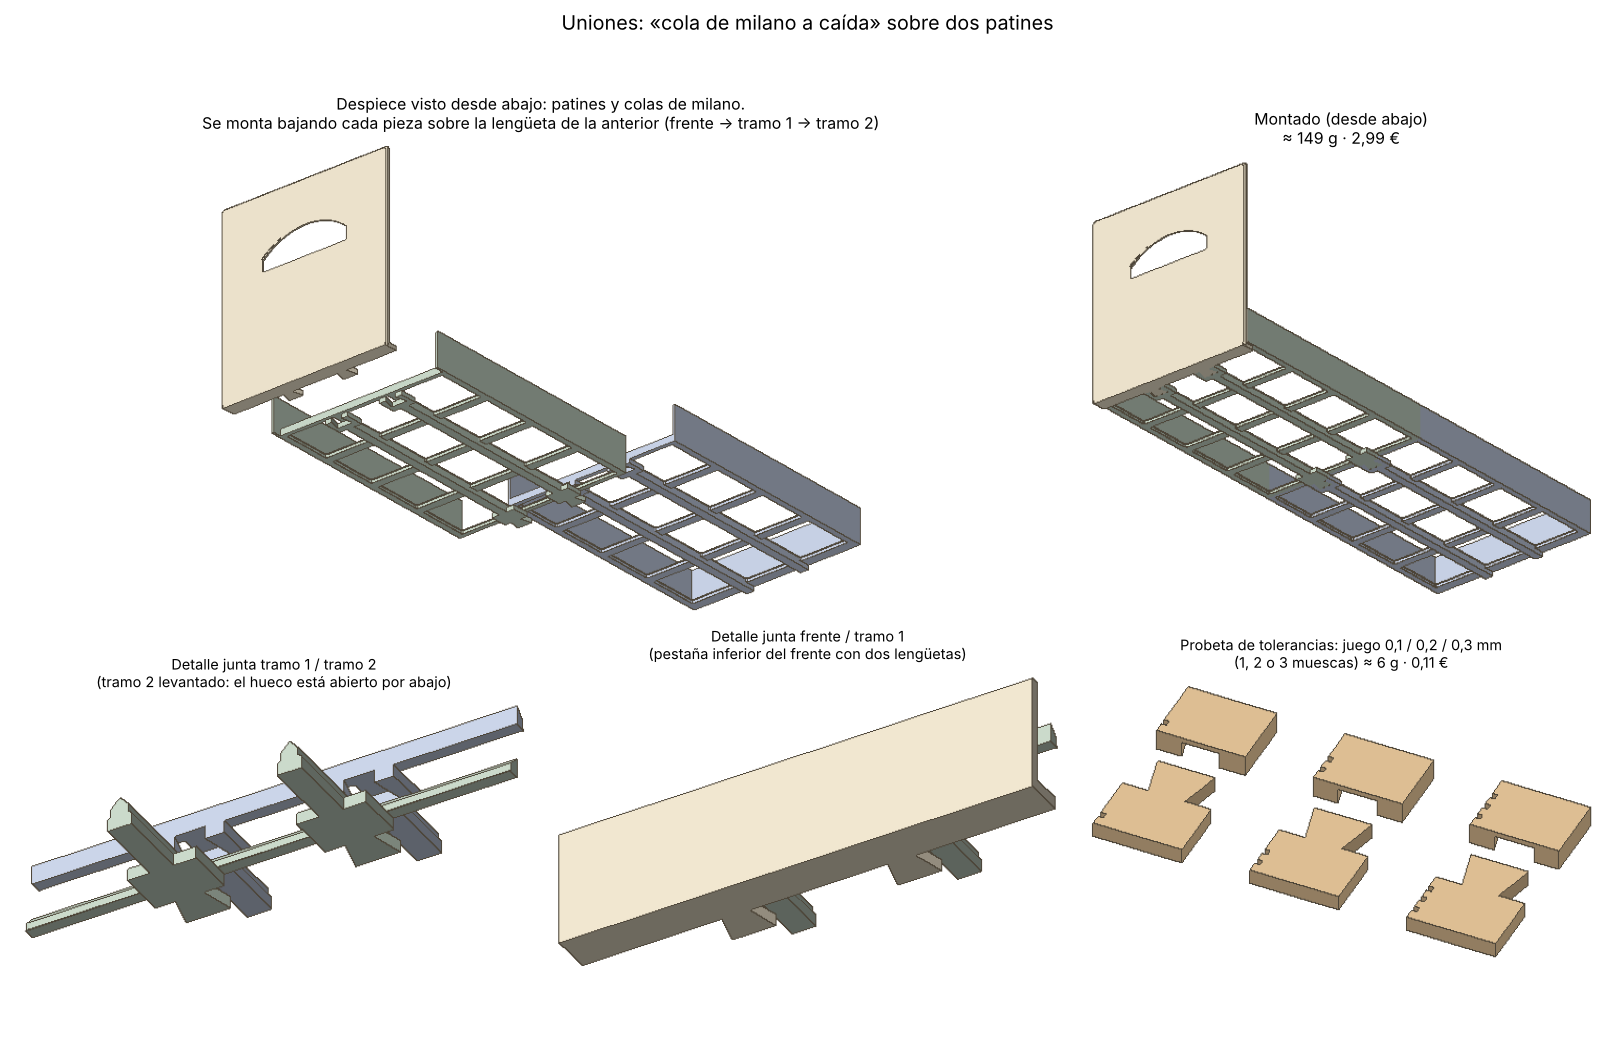
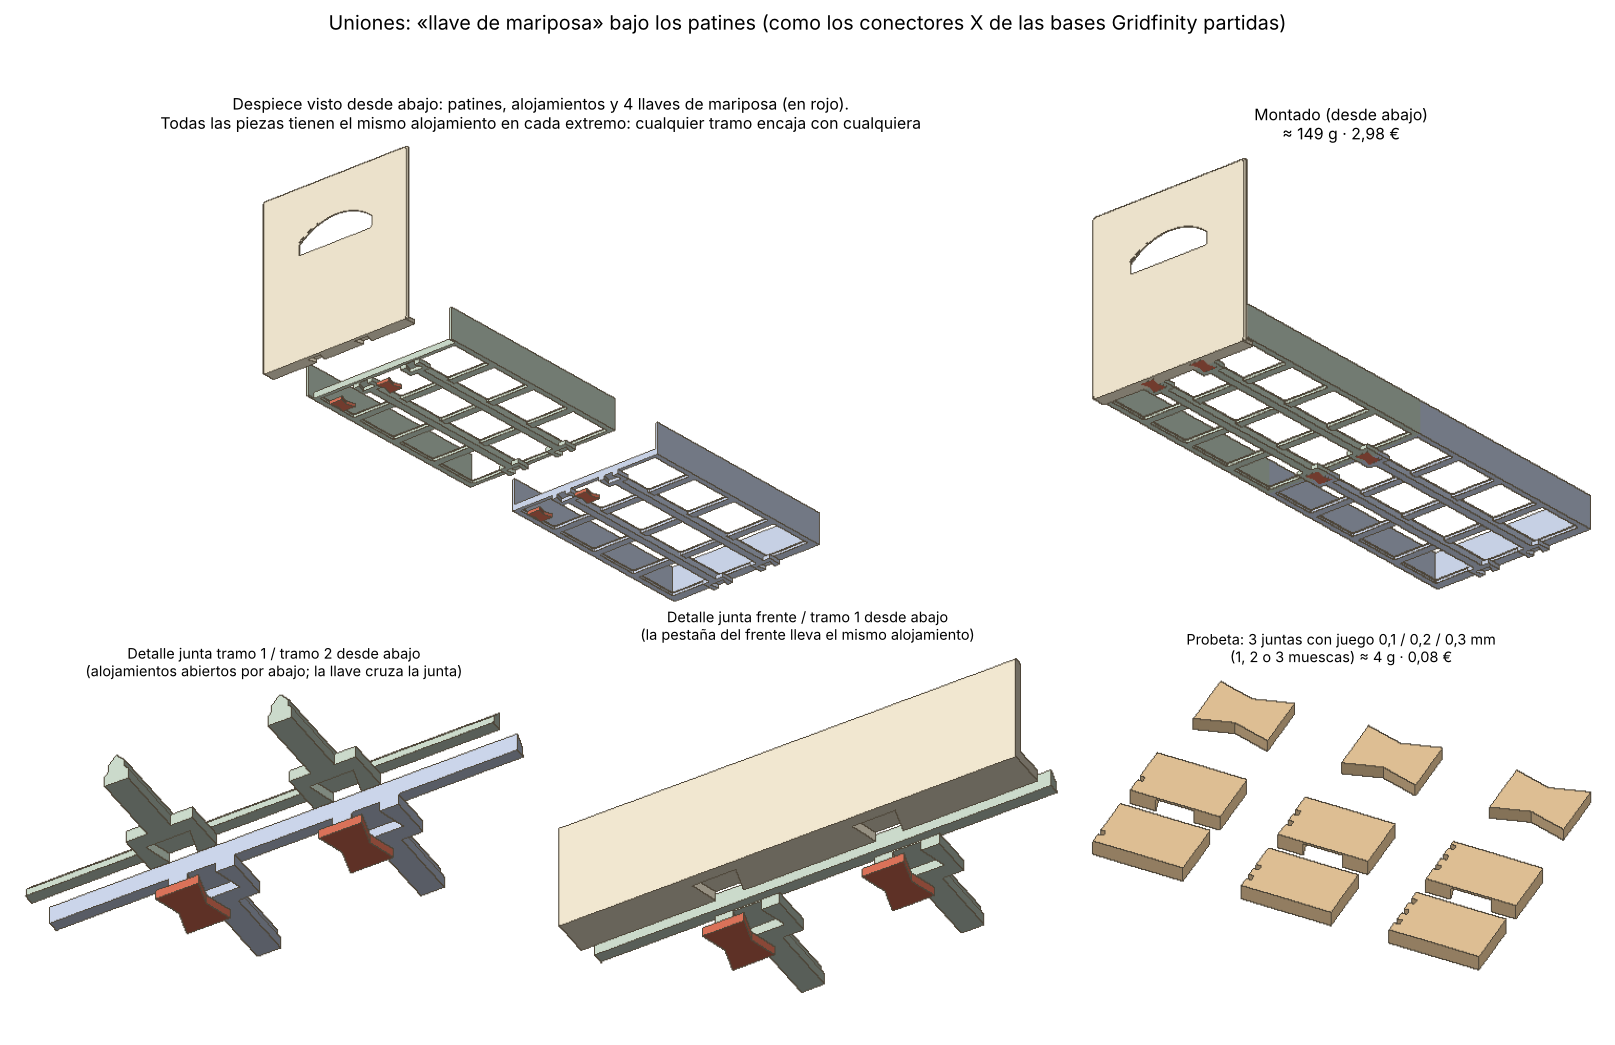
feat(cajones-isla): uniones con llave de mariposa intercambiable y revoltons sin vigas
- Todas las piezas llevan el mismo alojamiento hembra; una llave suelta
  cruza cada junta (inspirado en los conectores sueltos/X de las bases
  Gridfinity partidas). Probeta renombrada a prueba_union_llave_mariposa.stl
- Aberturas revoltons2/3/4: varias voltes seguidas sin vigas
- Resumen de la investigación de uniones Gridfinity en CLAUDE.md

Claude-Session: https://claude.ai/code/session_01Cm6ncTpdod6B1EyUYf7uKR

diff --git a/cajones-isla/conceptos/cajon.py b/cajones-isla/conceptos/cajon.py
@@ -1,10 +1,11 @@
 """Cajón modular Gridfinity para el hueco de la isla (130 × 135 × 350 mm).
 
 Piezas:  frente (intercambiable)  +  tramo 1  +  tramo 2
-Uniones: "cola de milano a caída". Bajo la base corren dos patines; en cada
-         junta, la pieza de delante saca una lengüeta en cola de milano y la de
-         detrás tiene el hueco abierto por abajo: se monta bajando la pieza de
-         detrás sobre la lengüeta. Tirar del cajón no la puede soltar.
+Uniones: "llave de mariposa" bajo los patines. Todas las piezas llevan el mismo
+         alojamiento hembra en cada extremo; una llave suelta (doble cola de
+         milano) cruza la junta. Se montan boca abajo metiendo las llaves; al
+         poner el cajón en el hueco, el estante las encierra. Cualquier tramo
+         se une con cualquier otro, en cualquier orden.
 """
 import math
 import numpy as np
@@ -26,7 +27,8 @@ Y_SPLIT = Y0 + 4 * G                      # junta tramo 1 / tramo 2
 Z_R = 3.0                                 # alto de los patines (la base va encima)
 RAIL_W = 6.0                              # ancho del patín (bajo el nervio de la base)
 RAIL_X = (-G / 2, G / 2)                  # bajo los nervios longitudinales de la base
-DT_NECK, DT_HEAD, DT_LEN = 7.0, 11.0, 8.0 # cola de milano: cuello, cabeza, largo
+DT_NECK, DT_HEAD, DT_LEN = 7.0, 11.0, 7.0 # cada mitad de la llave: cuello, cabeza, largo
+KEY_T, SOCK_D = 2.4, 2.6                  # grueso de la llave y profundidad del alojamiento (techo 0,4)
 DT_PAD = 17.0                             # ensanche del patín alrededor de la unión
 HOLGURA_DT = 0.2                          # juego por lado en la cola de milano
 FL_D = 10.0                               # fondo de la pestaña inferior del frente
@@ -70,10 +72,27 @@ def corte(cs, prof, chaflan=0.0):
     return m.rotate((90, 0, 0)).translate((0, prof, 0))
 
 
-def cola_milano(holgura=0.0, largo=DT_LEN, alto=Z_R):
-    n, h = DT_NECK / 2 + holgura, DT_HEAD / 2 + holgura
-    pts = [(-n, -0.01 - holgura), (n, -0.01 - holgura), (h, largo + holgura), (-h, largo + holgura)]
+def mitad(holgura=0.0, lado=1, alto=KEY_T):
+    """Media llave (cola de milano) desde la junta (y=0) hacia lado·Y."""
+    n, h, l = DT_NECK / 2 + holgura, DT_HEAD / 2 + holgura, DT_LEN + holgura
+    pts = [(-n, -0.01), (n, -0.01), (h, l), (-h, l)]
+    if lado < 0:
+        pts = [(x, -y) for x, y in reversed(pts)]
     return CrossSection([pts]).extrude(alto)
+
+
+def llave():
+    """Llave de mariposa: dos colas de milano unidas por el cuello."""
+    return mitad(lado=1) + mitad(lado=-1)
+
+
+def alojamiento(y, lado):
+    """Ensanche del patín con media mortaja abierta por abajo, en la junta y hacia lado·Y."""
+    largo = DT_LEN + 4
+    y0 = y if lado > 0 else y - largo
+    pad = Manifold.batch_boolean([box(x - DT_PAD / 2, y0, 0, DT_PAD, largo, Z_R) for x in RAIL_X], OpType.Add)
+    hueco = Manifold.batch_boolean([mitad(HOLGURA_DT, lado, SOCK_D + 0.01).translate((x, y, -0.01)) for x in RAIL_X], OpType.Add)
+    return pad, hueco
 
 
 # --- base Gridfinity -------------------------------------------------------
@@ -107,34 +126,22 @@ def patines(y_a, y_b):
     return Manifold.batch_boolean([box(x - RAIL_W / 2, y_a, 0, RAIL_W, y_b - y_a, Z_R + 0.01) for x in RAIL_X], OpType.Add)
 
 
-def macho(y):
-    """Lengüetas que salen hacia +Y desde y (con su ensanche de raíz)."""
-    m = Manifold()
-    for x in RAIL_X:
-        m += cola_milano().translate((x, y, 0))
-        m += box(x - DT_PAD / 2, y - 12, 0, DT_PAD, 12, Z_R)
+# --- piezas ----------------------------------------------------------------
+def tramo(y_a, y_b, y_base, trasera=False):
+    """Tramo de 4 filas con alojamientos en los dos extremos (intercambiable)."""
+    m = bandeja(y_a, y_b, 4, y_base, trasera) + patines(y_a if y_a > FL_D else FL_D, y_b)
+    for y, lado in ((max(y_a, FL_D), 1), (y_b, -1)):
+        pad, hueco = alojamiento(y, lado)
+        m = m + pad - hueco
     return m
 
 
-def hembra(y):
-    """Ensanche con hueco abierto por abajo, a partir de y hacia +Y."""
-    pad = Manifold.batch_boolean([box(x - DT_PAD / 2, y, 0, DT_PAD, DT_LEN + 5, Z_R) for x in RAIL_X], OpType.Add)
-    hueco = Manifold.batch_boolean([cola_milano(HOLGURA_DT, alto=Z_R + 0.2).translate((x, y, -0.01)) for x in RAIL_X], OpType.Add)
-    return pad, hueco
-
-
-# --- piezas ----------------------------------------------------------------
 def tramo1():
-    m = bandeja(TF, Y_SPLIT, 4, Y0) + patines(FL_D, Y_SPLIT)
-    m += macho(Y_SPLIT)
-    pad, hueco = hembra(FL_D)                       # recibe las lengüetas del frente
-    return m + pad - hueco
+    return tramo(TF, Y_SPLIT, Y0)
 
 
 def tramo2():
-    m = bandeja(Y_SPLIT, L, 4, Y_SPLIT, trasera=True) + patines(Y_SPLIT, L)
-    pad, hueco = hembra(Y_SPLIT)
-    return m + pad - hueco
+    return tramo(Y_SPLIT, L, Y_SPLIT, trasera=True)
 
 
 ESTILOS = {
@@ -149,7 +156,30 @@ ESTILOS = {
     "volta":    dict(radio=2.0, chaflan=1.0, abertura=("volta", 66, 22, 92)),
     # revoltons: tres voltes entre "vigas", como el techo visto desde abajo
     "revoltons": dict(radio=2.0, chaflan=1.0, abertura=("revoltons", 24, 18, 94)),
+    # revoltons sin columnas: una sola abertura cuyo techo son varias voltes seguidas
+    "revoltons3": dict(radio=2.0, chaflan=1.0, abertura=("arcos", 78, 20, 93, 3)),
+    "revoltons2": dict(radio=2.0, chaflan=1.0, abertura=("arcos", 72, 22, 93, 2)),
+    "revoltons4": dict(radio=2.0, chaflan=1.0, abertura=("arcos", 84, 18, 94, 4)),
 }
+
+
+def arcos(ancho, alto, z0, n, flecha_rel=0.2, r=2.0, r_valle=1.5):
+    """Abertura de base recta y techo formado por n voltes seguidas (sin vigas)."""
+    luz = ancho / n
+    f = flecha_rel * luz
+    arr = alto - f
+    R = (luz ** 2 / 4 + f ** 2) / (2 * f)
+    a0 = math.asin((luz / 2) / R)
+    pts = [(-ancho / 2, z0), (ancho / 2, z0)]
+    for k in reversed(range(n)):
+        cx = -ancho / 2 + luz / 2 + k * luz
+        cz = z0 + arr + f - R
+        for i in range(25):
+            a = a0 - 2 * a0 * i / 24
+            pts.append((cx + R * math.sin(a), cz + R * math.cos(a)))
+    cs = CrossSection([pts])
+    cs = cs.offset(-r, JoinType.Round, circular_segments=16).offset(r, JoinType.Round, circular_segments=16)
+    return cs.offset(r_valle, JoinType.Round, circular_segments=16).offset(-r_valle, JoinType.Round, circular_segments=16)
 
 
 def arco(luz, alto, z0, flecha_rel=0.2, r=2.0):
@@ -169,7 +199,7 @@ def arco(luz, alto, z0, flecha_rel=0.2, r=2.0):
 
 def frente(estilo="actual", nervios_hasta=None):
     e = ESTILOS[estilo]
-    tipo, aw, ah, zc = e["abertura"]
+    tipo, aw, ah, zc = e["abertura"][:4]
     perfil = rrect(W, H, e["radio"]).translate((0, H / 2))
     if tipo == "onda":
         perfil -= CrossSection.circle(1, 96).scale((aw / 2 + 6, ah + 5)).translate((0, H + 5))
@@ -178,6 +208,8 @@ def frente(estilo="actual", nervios_hasta=None):
         f -= corte(rrect(aw, ah, ah / 2).translate((0, zc)), TF, e["chaflan"])
     elif tipo == "volta":
         f -= corte(arco(aw, ah, zc - ah / 2), TF, e["chaflan"])
+    elif tipo == "arcos":
+        f -= corte(arcos(aw, ah, zc - ah / 2, e["abertura"][4]), TF, e["chaflan"])
     elif tipo == "revoltons":
         viga = 5.0
         for k in (-1, 0, 1):
@@ -188,10 +220,10 @@ def frente(estilo="actual", nervios_hasta=None):
         f = f + caja - hueco
     # pestaña inferior y nervios: transmiten el tirón a las lengüetas
     f += box(-W / 2 + 1.5, 0, 0, W - 3, FL_D, Z_R)
-    top = nervios_hasta or (zc - ah / 2 - 6 if tipo in ("ovalo", "volta", "revoltons") else 76)
+    top = nervios_hasta or (zc - ah / 2 - 6 if tipo in ("ovalo", "volta", "revoltons", "arcos") else 76)
     for x in RAIL_X:
         f += box(x - 0.8, TF, Z_R, 1.6, RIB, top - Z_R)
-        f += cola_milano().translate((x, FL_D, 0))
+    f -= Manifold.batch_boolean([mitad(HOLGURA_DT, -1, SOCK_D + 0.01).translate((x, FL_D, -0.01)) for x in RAIL_X], OpType.Add)
     return f
 
 
@@ -200,16 +232,21 @@ def gramos(m):
 
 
 def prueba_union():
-    """Probeta de tolerancias: 3 parejas macho/hembra con juego 0,1 / 0,2 / 0,3 mm.
-    Las muescas del costado indican cuál es cuál (1, 2 o 3)."""
-    piezas = Manifold()
+    """Probeta: 3 juntas (juego 0,1 / 0,2 / 0,3 mm, marcadas con 1, 2 o 3 muescas),
+    cada una con dos tacos hembra y su llave."""
+    global HOLGURA_DT
+    original, piezas = HOLGURA_DT, Manifold()
     for i, juego in enumerate((0.1, 0.2, 0.3)):
-        x0 = i * 30.0
-        m = box(-DT_PAD / 2, -12, 0, DT_PAD, 12, Z_R) + cola_milano()
-        h = box(-DT_PAD / 2, 0, 0, DT_PAD, DT_LEN + 5, Z_R + 1.2) - cola_milano(juego, alto=Z_R + 0.2).translate((0, 0, -0.01))
-        for k in range(i + 1):                     # muescas identificativas
-            n = box(-DT_PAD / 2 - 0.5, -10 + k * 3, -0.5, 1.5, 1.2, Z_R + 2)
-            m -= n
-            h -= n.translate((0, 12, 0))
-        piezas += m.translate((x0, 0, 0)) + h.translate((x0, 14, 0))   # separadas 6 mm
+        HOLGURA_DT = juego
+        x0 = i * 28.0
+        a = box(-DT_PAD / 2, -(DT_LEN + 4), 0, DT_PAD, DT_LEN + 4, Z_R) - mitad(juego, -1, SOCK_D + 0.01).translate((0, 0, -0.01))
+        b = box(-DT_PAD / 2, 0, 0, DT_PAD, DT_LEN + 4, Z_R) - mitad(juego, 1, SOCK_D + 0.01).translate((0, 0, -0.01))
+        for k in range(i + 1):
+            n = box(-DT_PAD / 2 - 0.5, -9 + k * 3, -0.5, 1.5, 1.2, Z_R + 2)
+            a -= n
+            b -= n.translate((0, 12, 0))
+        # tacos con el alojamiento contra la cama, igual que en los tramos (la primera
+        # capa estrecha un poco la boca: así la prueba es fiel)
+        piezas += a.translate((x0, -2, 0)) + b.translate((x0, 2, 0)) + llave().rotate((0, 0, 90)).translate((x0, 30, 0))
+    HOLGURA_DT = original
     return piezas

diff --git a/cajones-isla/conceptos/img_uniones.py b/cajones-isla/conceptos/img_uniones.py
@@ -27,43 +27,49 @@ def limpio(ax):
 
 
 fr, t1, t2 = frente("volta"), tramo1(), tramo2()
+C_K = np.array([0.86, 0.45, 0.35])
+LLAVES = [(x, y) for y in (FL_D, Y_SPLIT) for x in RAIL_X]
+llaves = lambda dz=0.0, dy=None: [(tm(llave().translate((x, y + (dy or {})[y] if dy else y, dz))), C_K) for x, y in LLAVES]
 
 # ---------- uniones ----------
 fig = plt.figure(figsize=(17, 11))
 gs = fig.add_gridspec(2, 3, height_ratios=[1.15, 1])
 ax = fig.add_subplot(gs[0, :2])
-img = render([(tm(fr.translate((0, -45, 0))), C_FR), (tm(t1), C_T1), (tm(t2.translate((0, 45, 40))), C_T2)],
+ks = [(tm(llave().translate((x, y + (-22 if y == FL_D else 22), -25))), C_K) for x, y in LLAVES]
+img = render([(tm(fr.translate((0, -45, 0))), C_FR), (tm(t1), C_T1), (tm(t2.translate((0, 45, 0))), C_T2)] + ks,
              az=-40, el=-28, size=(1000, 560))
 ax.imshow(recorta(img)); limpio(ax)
-ax.set_title("Despiece visto desde abajo: patines y colas de milano.\n"
-             "Se monta bajando cada pieza sobre la lengüeta de la anterior (frente → tramo 1 → tramo 2)", fontsize=12)
+ax.set_title("Despiece visto desde abajo: patines, alojamientos y 4 llaves de mariposa (en rojo).\n"
+             "Todas las piezas tienen el mismo alojamiento en cada extremo: cualquier tramo encaja con cualquiera", fontsize=12)
 ax = fig.add_subplot(gs[0, 2])
-img = render([(tm(fr), C_FR), (tm(t1), C_T1), (tm(t2), C_T2)], az=-40, el=-28, size=(520, 560))
+img = render([(tm(fr), C_FR), (tm(t1), C_T1), (tm(t2), C_T2)] + llaves(), az=-40, el=-28, size=(520, 560))
 ax.imshow(recorta(img)); limpio(ax)
-tot = gramos(fr) + gramos(t1) + gramos(t2)
+tot = gramos(fr) + gramos(t1) + gramos(t2) + 4 * gramos(llave())
 ax.set_title(f"Montado (desde abajo)\n≈ {tot:.0f} g · {EUR(tot)} €", fontsize=12)
 
 ax = fig.add_subplot(gs[1, 0])
 b = np.array([[-45, Y_SPLIT - 25, -2], [45, Y_SPLIT + 25, 12]])
 corte_t1 = t1 ^ box(-60, Y_SPLIT - 30, -1, 120, 60, 40)
-corte_t2 = (t2 ^ box(-60, Y_SPLIT - 30, -1, 120, 60, 40)).translate((0, 0, 14))
-img = render([(tm(corte_t1), C_T1), (tm(corte_t2), C_T2)], az=-30, el=-35, size=(540, 420))
+corte_t2 = (t2 ^ box(-60, Y_SPLIT - 30, -1, 120, 60, 40)).translate((0, 8, 0))
+kk = [(tm(llave().translate((x, Y_SPLIT + 4, -12))), C_K) for x in RAIL_X]
+img = render([(tm(corte_t1), C_T1), (tm(corte_t2), C_T2)] + kk, az=-30, el=-40, size=(540, 420))
 ax.imshow(recorta(img)); limpio(ax)
-ax.set_title("Detalle junta tramo 1 / tramo 2\n(tramo 2 levantado: el hueco está abierto por abajo)", fontsize=11)
+ax.set_title("Detalle junta tramo 1 / tramo 2 desde abajo\n(alojamientos abiertos por abajo; la llave cruza la junta)", fontsize=11)
 
 ax = fig.add_subplot(gs[1, 1])
 corte_fr = fr ^ box(-60, -1, -1, 120, 30, 30)
-corte_t1b = (t1 ^ box(-60, 0, -1, 120, 40, 40)).translate((0, 0, 14))
-img = render([(tm(corte_fr), C_FR), (tm(corte_t1b), C_T1)], az=-30, el=-35, size=(540, 420))
+corte_t1b = (t1 ^ box(-60, 0, -1, 120, 40, 40)).translate((0, 8, 0))
+kk = [(tm(llave().translate((x, FL_D + 4, -12))), C_K) for x in RAIL_X]
+img = render([(tm(corte_fr), C_FR), (tm(corte_t1b), C_T1)] + kk, az=-30, el=-40, size=(540, 420))
 ax.imshow(recorta(img)); limpio(ax)
-ax.set_title("Detalle junta frente / tramo 1\n(pestaña inferior del frente con dos lengüetas)", fontsize=11)
+ax.set_title("Detalle junta frente / tramo 1 desde abajo\n(la pestaña del frente lleva el mismo alojamiento)", fontsize=11)
 
 ax = fig.add_subplot(gs[1, 2])
 p = prueba_union()
 img = render([(tm(p), np.array([0.93, 0.80, 0.62]))], az=-25, el=40, size=(540, 420))
 ax.imshow(recorta(img)); limpio(ax)
-ax.set_title(f"Probeta de tolerancias: juego 0,1 / 0,2 / 0,3 mm\n(1, 2 o 3 muescas) ≈ {gramos(p):.0f} g · {EUR(gramos(p))} €", fontsize=11)
-fig.suptitle("Uniones: «cola de milano a caída» sobre dos patines", fontsize=15, y=0.99)
+ax.set_title(f"Probeta: 3 juntas con juego 0,1 / 0,2 / 0,3 mm\n(1, 2 o 3 muescas) ≈ {gramos(p):.0f} g · {EUR(gramos(p))} €", fontsize=11)
+fig.suptitle("Uniones: «llave de mariposa» bajo los patines (como los conectores X de las bases Gridfinity partidas)", fontsize=15, y=0.99)
 plt.tight_layout(rect=(0, 0, 1, 0.96))
 plt.savefig(os.path.join(AQUI, "..", "uniones.png"), dpi=95)
 plt.close()
@@ -82,3 +88,20 @@ for ax, k in zip(axes.flat, nombres):
 fig.suptitle("Propuestas estéticas de la puerta (frente enrasado de 129 × 134 mm)", fontsize=15, y=0.99)
 plt.tight_layout(rect=(0, 0, 1, 0.95))
 plt.savefig(os.path.join(AQUI, "..", "puertas_estetica.png"), dpi=95)
+
+# ---------- revoltons ----------
+nombres = {"volta": "Volta\nun arco", "revoltons": "Revoltons con vigas\n3 huecos",
+           "revoltons2": "Revoltons sin vigas\n2 voltes", "revoltons3": "Revoltons sin vigas\n3 voltes",
+           "revoltons4": "Revoltons sin vigas\n4 voltes"}
+fig, axes = plt.subplots(2, 5, figsize=(18, 8.6), gridspec_kw=dict(height_ratios=[1.5, 1]))
+for i, k in enumerate(nombres):
+    f = frente(k)
+    axes[0, i].imshow(recorta(render([(tm(f), C_FR)], az=0, el=0, size=(360, 380))))
+    axes[0, i].set_title(f"{nombres[k]}\n≈ {gramos(f):.0f} g · {EUR(gramos(f))} €", fontsize=12)
+    zc = ESTILOS[k]["abertura"][3]
+    zoom = f ^ box(-50, -1, zc - 22, 100, 4, 44)
+    axes[1, i].imshow(recorta(render([(tm(zoom), C_FR)], az=-18, el=14, size=(360, 220))))
+    for ax in axes[:, i]: limpio(ax)
+fig.suptitle("Volta catalana como tirador: con y sin vigas (abajo, detalle del chaflán)", fontsize=15, y=0.99)
+plt.tight_layout(rect=(0, 0, 1, 0.95))
+plt.savefig(os.path.join(AQUI, "..", "revoltons.png"), dpi=95)

diff --git a/CLAUDE.md b/CLAUDE.md
@@ -68,17 +68,25 @@
     - Cubos Gridfinity (pared y suelo de 1,2 mm, pie hueco): 1×1×3u 7 g · 1×1×6u 12 g · 2×1×6u 20 g · 3×1×3u 18 g · 3×1×6u 28 g · 2×2×6u 32 g · 3×2×4u 35 g · 1×2×12u 35 g. El juego de ejemplo de la imagen pesa ≈ 159 g ≈ 3,19 €.
     - Pruebas: marco 11 g / 0,22 € · muestra (frente gola + 1 fila de base) 56,5 g / 1,13 €.
   - **Frente elegido para ver en detalle: agujero de dedo** (imagen `cajones-isla/cajon_agujero.png`, despiece y montado sin cubos): frente 42 g + tramo 1 32 g + tramo 2 45 g = **≈ 119 g ≈ 2,38 €** por cajón.
-  - **Uniones diseñadas: "cola de milano a caída"** (`cajones-isla/uniones.png`, modelo en `cajones-isla/conceptos/cajon.py`):
-    - Bajo la base corren **2 patines** de 6 × 3 mm, colocados justo bajo los nervios longitudinales de la base (x = ±21), para que la carga baje recta. Sirven a la vez de patines de deslizamiento y de larguero que rigidiza la rejilla.
-    - En cada junta, la pieza de delante saca dos lengüetas en cola de milano (cuello 7, cabeza 11, largo 8 mm) y la de detrás tiene el hueco **abierto por abajo**. Se monta *bajando* cada pieza sobre la anterior: frente → tramo 1 → tramo 2. Tirar del cajón no las puede separar; solo se sueltan levantando.
-    - El frente lleva una pestaña inferior de 10 mm con las lengüetas y 2 nervios alineados con los patines: el tirón va del frente a los nervios, de ahí a las lengüetas y a los patines.
-    - Juego por defecto: 0,2 mm por lado. **Probeta** `cajones-isla/prueba_union_cola_milano.stl` con 3 parejas (0,1 / 0,2 / 0,3 mm, marcadas con 1, 2 o 3 muescas), ≈ 6 g / 0,11 €.
-    - Coste: los patines y ensanches suman ~30 g. Cajón completo ≈ **149 g ≈ 2,99 €** (frente ≈ 46 g, tramo 1 ≈ 45 g, tramo 2 ≈ 59 g).
-    - Mejora opcional: un pasador de filamento de 1,75 mm atravesando cada unión impediría que se levante.
+  - **Uniones (v2): "llave de mariposa" bajo los patines** (`cajones-isla/uniones.png`, modelo en `cajones-isla/conceptos/cajon.py`):
+    - Bajo la base corren **2 patines** de 6 × 3 mm, colocados justo bajo los nervios longitudinales de la base (x = ±21), para que la carga baje recta. Sirven también de patines de deslizamiento y de larguero.
+    - **Todas las piezas llevan el mismo alojamiento hembra** (media cola de milano abierta por abajo, 2,6 mm de hondo y techo de 0,4) en cada extremo. Una **llave suelta** (doble cola de milano: cuello 7, cabeza 11, 2 × 7 mm de largo, 2,4 mm de grueso, 0,4 g) cruza cada junta. Son 4 llaves por cajón.
+    - Montaje: con las piezas boca abajo se meten las llaves y se da la vuelta al cajón. En el hueco, el estante encierra las llaves por debajo y no se pueden caer. Tirar del cajón no lo separa.
+    - Ventaja frente a la v1 (lengüeta macho en una pieza y hembra en otra): **cualquier tramo encaja con cualquiera, en cualquier orden**. Para otro fondo basta con añadir tramos. La llave es la pieza estándar barata de la *capa 2*.
+    - Juego por defecto: 0,2 mm por lado en el alojamiento. **Probeta** `cajones-isla/prueba_union_llave_mariposa.stl`: 3 juntas (0,1 / 0,2 / 0,3 mm, marcadas con 1, 2 o 3 muescas), con los alojamientos contra la cama como en los tramos, ≈ 4 g / 0,08 €.
+    - Coste: cajón completo ≈ **149 g ≈ 2,98 €** (frente ≈ 45 g, tramo 1 ≈ 44 g, tramo 2 ≈ 59 g, llaves 1,5 g).
+  - **Investigación: cómo se unen otros sistemas Gridfinity** (pregunta de Luis, 2026-10-13):
+    1. *Tornillos*: la base "screw together" original de Zack Freedman (tornillo 4-40 + inserto), gridfinity-rebuilt de kennetek (estilo screw_together) y Modular Baseplates (M3×8 + tuerca, el tornillo hace de imán para los cubos). Muy firme, pero necesita herrajes.
+    2. *Colas de milano integradas en la pieza*: Clickfinity (conectores M y W en los lados; importa la orientación; tornillo autorroscante M2/M2,5 opcional).
+    3. *Conector suelto*: Pressure-fit collection (bordes macho, hembra o liso, y una pieza suelta que une dos hembras) y GRIPS (pestañas entrelazadas).
+    4. *Conectores X por debajo*: los generadores de base partida para cajones (MakerWorld "Drawer Baseplate Auto-Split") parten la base al tamaño de la cama y la unen con piezas en X bajo los cruces, sin herramientas.
+    5. *Cajoneras Gridfinity completas* (GEN2 Classic Drawer, Gridfinity Hardware Storage System, generadores paramétricos): usan carriles y armazón propio. No aplican a un hueco existente.
+    - Conclusión: nuestra llave de mariposa bajo los patines es la idea de los puntos 3 y 4 (conector suelto, por debajo y sin herramientas), adaptada a un cajón que desliza.
   - **Orientación de impresión**: el frente se imprime **boca abajo** (la cara vista sobre la cama de PEI texturizada de la A1 sale mate y uniforme). Así la tracción del tirón va entre capas, pero los esfuerzos son mínimos (un cajón se abre con 10–20 N). Los tramos se imprimen con la base sobre la cama. Ninguna pieza necesita soportes.
   - **Estética de la puerta** (`cajones-isla/puertas_estetica.png`):
     - *Línea de sombra*: radio de 2 mm en las esquinas y chaflán de 1 mm en las aristas de la cara y de la abertura. Hace que la rendija con el hueco parezca intencionada; es el truco que más mejora por menos. Es mejor chaflán que redondeo porque, boca abajo, el redondeo en la cara de la cama no se imprime bien.
     - Aberturas: óvalo, píldora fina, bolsillo (cajita trasera de 6,8 mm; no se ve el interior), onda superior, círculo, **volta** y **revoltons**.
+    - **Revoltons sin vigas** (`cajones-isla/revoltons.png`, pedido por Luis): una sola abertura de base recta cuyo techo son 2, 3 o 4 voltes seguidas, con los valles redondeados (r 1,5). Caben los dedos como en la volta y se lee como el techo de revoltons. Variantes `revoltons2/3/4` en `cajon.py`; ≈ 44 g.
   - **El piso de Luis tiene voltes catalanes** (techo de bóveda tabicada). Lo usamos como lenguaje de diseño: la *volta* es un arco rebajado (flecha ≈ 1/5 de la luz) sobre arranques rectos; los *revoltons* son tres voltes pequeñas separadas por "vigas", como el techo visto desde abajo.
   - **Cuidado estructural**: con reborde bajo y frente alto, tirar desde arriba hace palanca sobre la unión frente–base. Por eso llevan nervios traseros, y cuanto más bajo está el tirador, menos esfuerzo. El *calado* va sin nervios y sería el más flojo.
   - *Tirador*: una muesca semicircular arriba del frente, que no gasta material extra y no sobresale.
